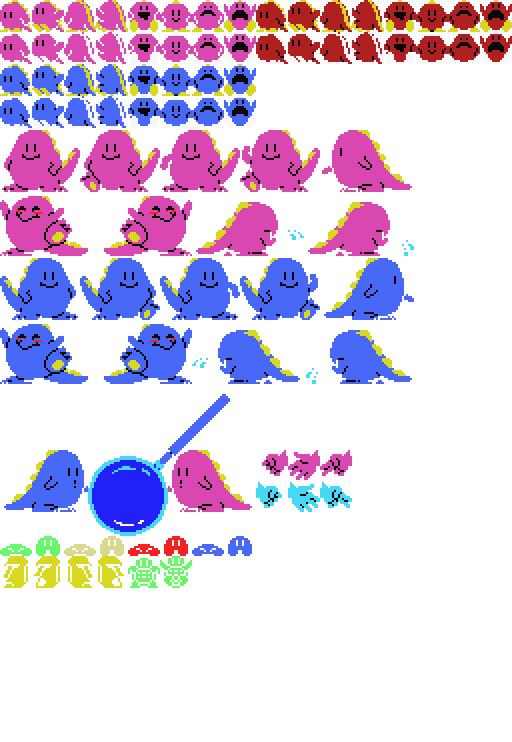
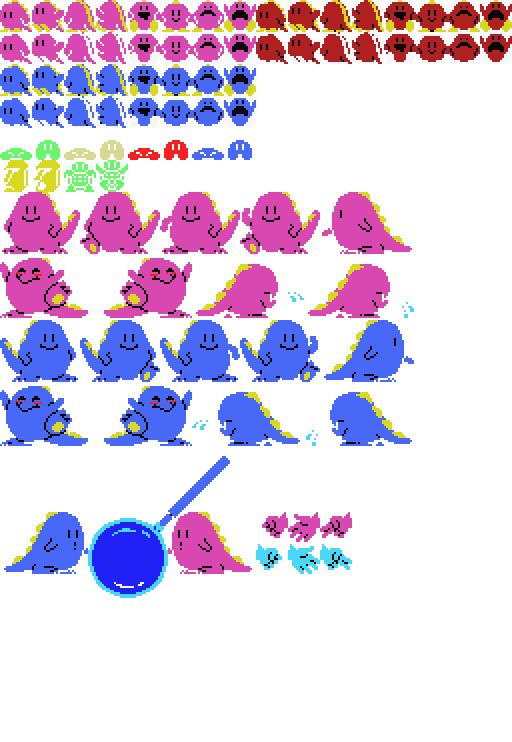
Map the pills characters.

Changed region(s): [[0.0, 0.155, 0.8125, 0.8059]]

diff --git a/src/app/game.js b/src/app/game.js
@@ -34,6 +34,18 @@ async function main(canvas) {
     background.playInLoop();
   });
 
+  compositor.addLayer(charactersMap.newSprite("pill-green", new Vec2(8, 3)));
+  compositor.addLayer(charactersMap.newSprite("pill-green-jumping", new Vec2(10, 3)));
+
+  compositor.addLayer(charactersMap.newSprite("pill-beige", new Vec2(8, 5)));
+  compositor.addLayer(charactersMap.newSprite("pill-beige-jumping", new Vec2(10, 5)));
+
+  compositor.addLayer(charactersMap.newSprite("pill-red", new Vec2(21, 3)));
+  compositor.addLayer(charactersMap.newSprite("pill-red-jumping", new Vec2(23, 3)));
+
+  compositor.addLayer(charactersMap.newSprite("pill-blue", new Vec2(21, 5)));
+  compositor.addLayer(charactersMap.newSprite("pill-blue-jumping", new Vec2(23, 5)));
+
   // Start to listening the input
   input.startListeningTo(window);
 
